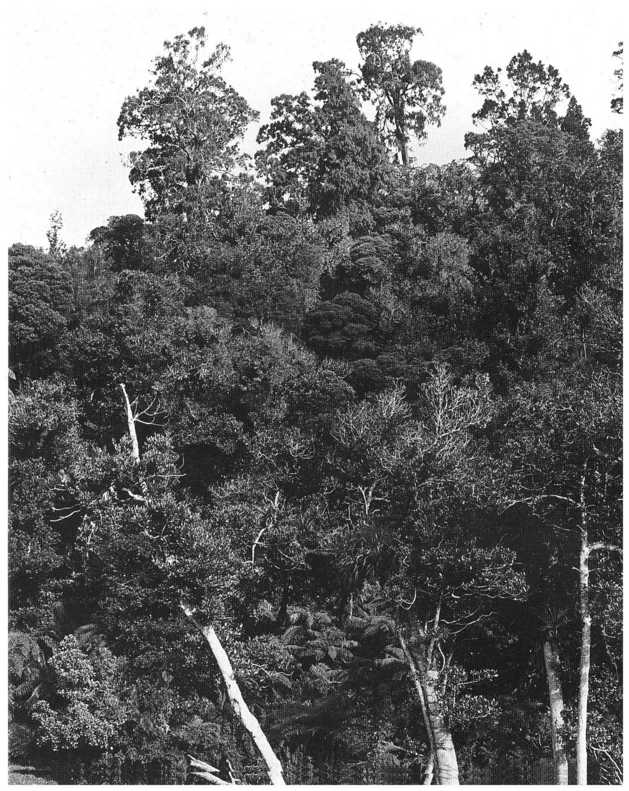
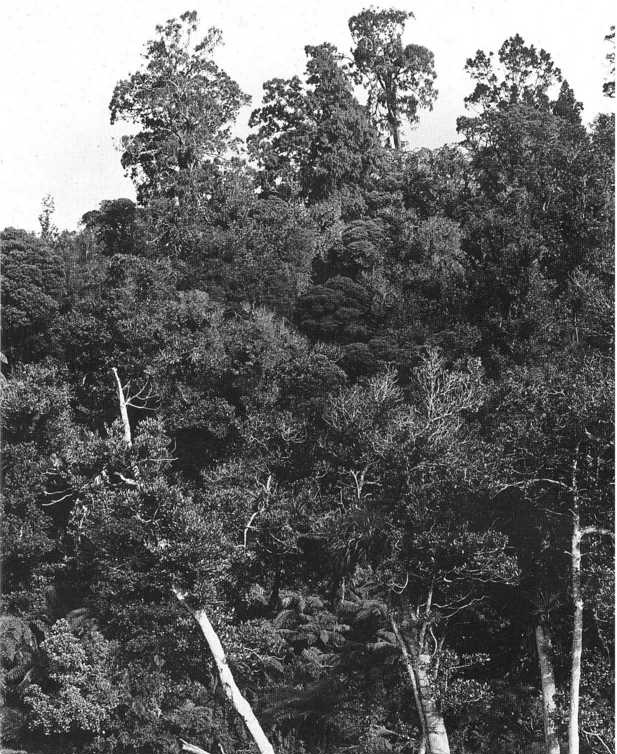
Resize image and adjust chapter 2 figures again.

diff --git a/book.tex b/book.tex
@@ -256,17 +256,17 @@ A more professional but similar reaction comes in more recent times from a fores
 
 \begin{figure}[htb]
 	\centering
-	\begin{minipage}[t]{0.4\textwidth}
+	\begin{minipage}[t]{0.534\textwidth}
 		\centering
-		\includegraphics[width=\textwidth]{graphics/figure7conifer.jpg}
+		\includegraphics[width=0.8\textwidth]{graphics/figure7conifer.jpg}
     	\caption[Conifer broadleaf forest south of Kaitaia]{Conifer broadleaf forest south of Kaitaia, northern North Island.
         The emergent trees on the ridge crest are mostly rimus (\BotanicRef{Dacrydium cupressinum}[Dacrydium][cupressinum]).
     	Photo: B. V. Sneddon.}%
     	\label{fig:7conifer}
 	\end{minipage}\hfill%
-	\begin{minipage}[t]{0.55\textwidth}
+	\begin{minipage}[t]{0.446\textwidth}
     	\centering
-    	\includegraphics[width=.8\textwidth]{graphics/figure8conifer.jpg}
+    	\includegraphics[width=0.8\textwidth]{graphics/figure8conifer.jpg}
     	\caption[Interior view of conifer broadleaf forest south of Kaitaia]{Interior view of conifer broadleaf forest south of Kaitaia, northern North Island.
     	In the foreground are young plants of the nikau palm (\BotanicRef{Rhopalostylis sapida}[Rhopalostylis][sapida]) and the shrub kawakawa (\BotanicRef{Macropiper excelsum}[Macropiper][excelsum]).
     	A larger nikau is on the right.
@@ -345,16 +345,16 @@ Other trees may also have buttresses: \eg\ kohekohe (\BotanicRef{Dysoxylum spect
 
 \begin{figure}[htb]
 	\centering
-	\begin{minipage}[t]{0.475\textwidth}
+	\begin{minipage}[t]{0.54\textwidth}
 		\centering
-		\includegraphics[height=0.8\textwidth]{graphics/figure10pukatea.jpg}
+		\includegraphics[width=0.9\textwidth]{graphics/figure10pukatea.jpg}
     	\caption[Pneumatophore of pukatea]{Pneumatophore of pukatea (\BotanicRef{Laurelia novae-zelandiae}[Laurelia][novae-zelandiae]).
     	Photo:  M. D. King.}%
     	\label{fig:10pukatea}
 	\end{minipage}\hfill%
-	\begin{minipage}[t]{0.475\textwidth}
+	\begin{minipage}[t]{0.44\textwidth}
     	\centering
-    	\includegraphics[height=.8\textwidth]{graphics/figure11pukatea.jpg}
+    	\includegraphics[width=0.9\textwidth]{graphics/figure11pukatea.jpg}
     	\caption[Pneumatophore of pukatea showing the junction between the two sides of the original loop root]{Pneumatophore of pukatea (\BotanicRef{Laurelia novae-zelandiae}[Laurelia][novae-zelandiae]) showing the junction between the two sides of the original loop root.
     	Nga Manu Reserve, Waikanae, southern North Island.
     	Photo:  J. E. Casey.}%
@@ -534,17 +534,17 @@ In towai (\BotanicRef{Weinmannia silvicola}[Weinmannia][silvicola]) the trend is
 
 \begin{figure}[!htb]
 	\centering
-	\begin{minipage}[t]{0.475\textwidth}
+	\begin{minipage}[t]{0.516\textwidth}
 		\centering
-		\includegraphics[height=1.4\textwidth]{graphics/figure18pseudopanax.jpg}
+		\includegraphics[width=0.9\textwidth]{graphics/figure18pseudopanax.jpg}
     	\caption[Juvenile and adult leaves of \emph{Pseudopanax simplex var.\ simplex}]{Juvenile and adult leaves of \BotanicRef{Pseudopanax simplex var.\ simplex}[Pseudopanax][simplex var.\ simplex].
         Dissected compound juvenile leaves above; serrate, compound semi-juvenile leaves centre; simple, serrate adult leaves below.
     	Photo: J. E. Casey.}%
     	\label{fig:18pseudopanax}
 	\end{minipage}\hfill%
-	\begin{minipage}[t]{0.475\textwidth}
+	\begin{minipage}[t]{0.464\textwidth}
     	\centering
-    	\includegraphics[height=1.4\textwidth]{graphics/figure19leaves.jpg}
+    	\includegraphics[width=0.9\textwidth]{graphics/figure19leaves.jpg}
     	\caption[Juvenile and adult leaves]{Juvenile and adult leaves.
         Lancewood (\BotanicRef{Pseudopanax crassifolius}[Pseudopanax][crassifolius]): la, juvenile leaf; lb, adult leaf; lc, d, brown, mottled leaves from a seedling. \BotanicRef{Pseudopanax ferox}[Pseudopanax][ferox]: 2a, coarsely toothed juvenile leaf; 2b, adult leaf.
         Hinau (\BotanicRef{Elaeocarpus dentatus}[Elaeocarpus][dentatus]): 3a, juvenile leaf; 3b, adult leaf (note domatia).
@@ -557,16 +557,16 @@ In towai (\BotanicRef{Weinmannia silvicola}[Weinmannia][silvicola]) the trend is
 
 \begin{figure}[htb]
 	\centering
-	\begin{minipage}[t]{0.475\textwidth}
+	\begin{minipage}[t]{0.493\textwidth}
 		\centering
-		\includegraphics[height=1.3\textwidth]{graphics/figure21rimu.jpg}
+		\includegraphics[width=0.9\textwidth]{graphics/figure21rimu.jpg}
     	\caption[Rimu foliage]{Juvenile (below) and adult foliage of rimu (\BotanicRef{Dacrydium cupressinum}[Dacrydium][cupressinum]).
     	Photo: J. E. Casey.}%
     	\label{fig:21rimu}
 	\end{minipage}\hfill%
-	\begin{minipage}[t]{0.475\textwidth}
+	\begin{minipage}[t]{0.487\textwidth}
     	\centering
-    	\includegraphics[height=1.3\textwidth]{graphics/figure22kahikatea.jpg}
+    	\includegraphics[width=0.9\textwidth]{graphics/figure22kahikatea.jpg}
     	\caption[Kahikatea foliage]{Juvenile (above) and adult foliage of kahikatea (\BotanicRef{Dacrycarpus dacrydioides}[Dacrycarpus][dacrydioides]).
     	Photo: J. E. Casey.}%
     	\label{fig:22kahikatea}
@@ -575,17 +575,17 @@ In towai (\BotanicRef{Weinmannia silvicola}[Weinmannia][silvicola]) the trend is
 
 \begin{figure}[htb]
 	\centering
-	\begin{minipage}[t]{0.475\textwidth}
+	\begin{minipage}[t]{0.482\textwidth}
 		\centering
-		\includegraphics[height=\textwidth]{graphics/figure20lancewood.jpg}
+		\includegraphics[width=0.9\textwidth]{graphics/figure20lancewood.jpg}
     	\caption[Adult lancewood]{Adult lancewood (\BotanicRef{Pseudopanax crassifolius}[Pseudopanax][crassifolius]), with a basal shoot of completely juvenile form to the left.
         Nga Manu Reserve, Waikanae, southern North Island.
     	Photo: J. E. Casey.}%
     	\label{fig:20lancewood}
 	\end{minipage}\hfill%
-	\begin{minipage}[t]{0.475\textwidth}
+	\begin{minipage}[t]{0.498\textwidth}
     	\centering
-    	\includegraphics[height=\textwidth]{graphics/figure23hinau.jpg}
+    	\includegraphics[width=0.9\textwidth]{graphics/figure23hinau.jpg}
     	\caption[Domatia of the adult leaves of hinau]{Domatia of the adult leaves of hinau (\BotanicRef{Elaeocarpus dentatus}[Elaeocarpus][dentatus]).
         The pouch-like domatia form at the junctions of the secondary veins and the midrib.
     	Photo: M. D. King.}%
@@ -641,13 +641,13 @@ The petiole bases of mature leaves adjacent to a bud may also afford some protec
 
 \begin{figure}[htb]
 	\centering
-	\begin{minipage}[t]{0.66\textwidth}
+	\begin{minipage}[t]{0.664\textwidth}
 		\centering
 		\includegraphics[width=\textwidth]{graphics/figure24tarata.jpg}
     	\caption[Tarata or lemonwood]{Tarata or lemonwood (\BotanicRef{Pittosporum eugenioides}[Pittosporum][eugenioides]). Overwintering buds with overlapping bud scales. Photo: M. D. King.}%
     	\label{fig:24tarata}
 	\end{minipage}\hfill%
-	\begin{minipage}[t]{0.315\textwidth}
+	\begin{minipage}[t]{0.316\textwidth}
     	\centering
     	\includegraphics[width=\textwidth]{graphics/figure25rewarewa.jpg}
     	\caption[Rewarewa leaves]{Rewarewa (\BotanicRef{Knightia excelsa}[Knightia][excelsa]).
@@ -859,13 +859,13 @@ Other roots are stouter and grow down the trunk to the ground, often building up
 	\centering
 	\begin{minipage}[t]{0.502\textwidth}
 		\centering
-		\includegraphics[width=0.9\textwidth]{graphics/figure32kiekie.jpg}
+		\includegraphics[width=\textwidth]{graphics/figure32kiekie.jpg}
     	\caption[The drooping stems and foliage of kiekie]{The drooping stems and foliage of kiekie (\BotanicRef{Freycinetia baueriana var.\ banksii}[Freycinetia][baueriana var.\ banksii]) completely obscuring a kahikatea trunk. Kaitoke, near Wellington, southern North Island. Photo: J. W. Dawson.}%
     	\label{fig:32kiekie}
 	\end{minipage}\hfill%
 	\begin{minipage}[t]{0.478\textwidth}
     	\centering
-    	\includegraphics[width=0.9\textwidth]{graphics/figure33supplejack.jpg}
+    	\includegraphics[width=\textwidth]{graphics/figure33supplejack.jpg}
     	\caption[An entanglement of supplejack]{An entanglement of supplejack (\BotanicRef{Ripogonum scandens}[Ripogonum][scandens]). Photo:  M. D. King.}%
     	\label{fig:33supplejack}
 	\end{minipage}
